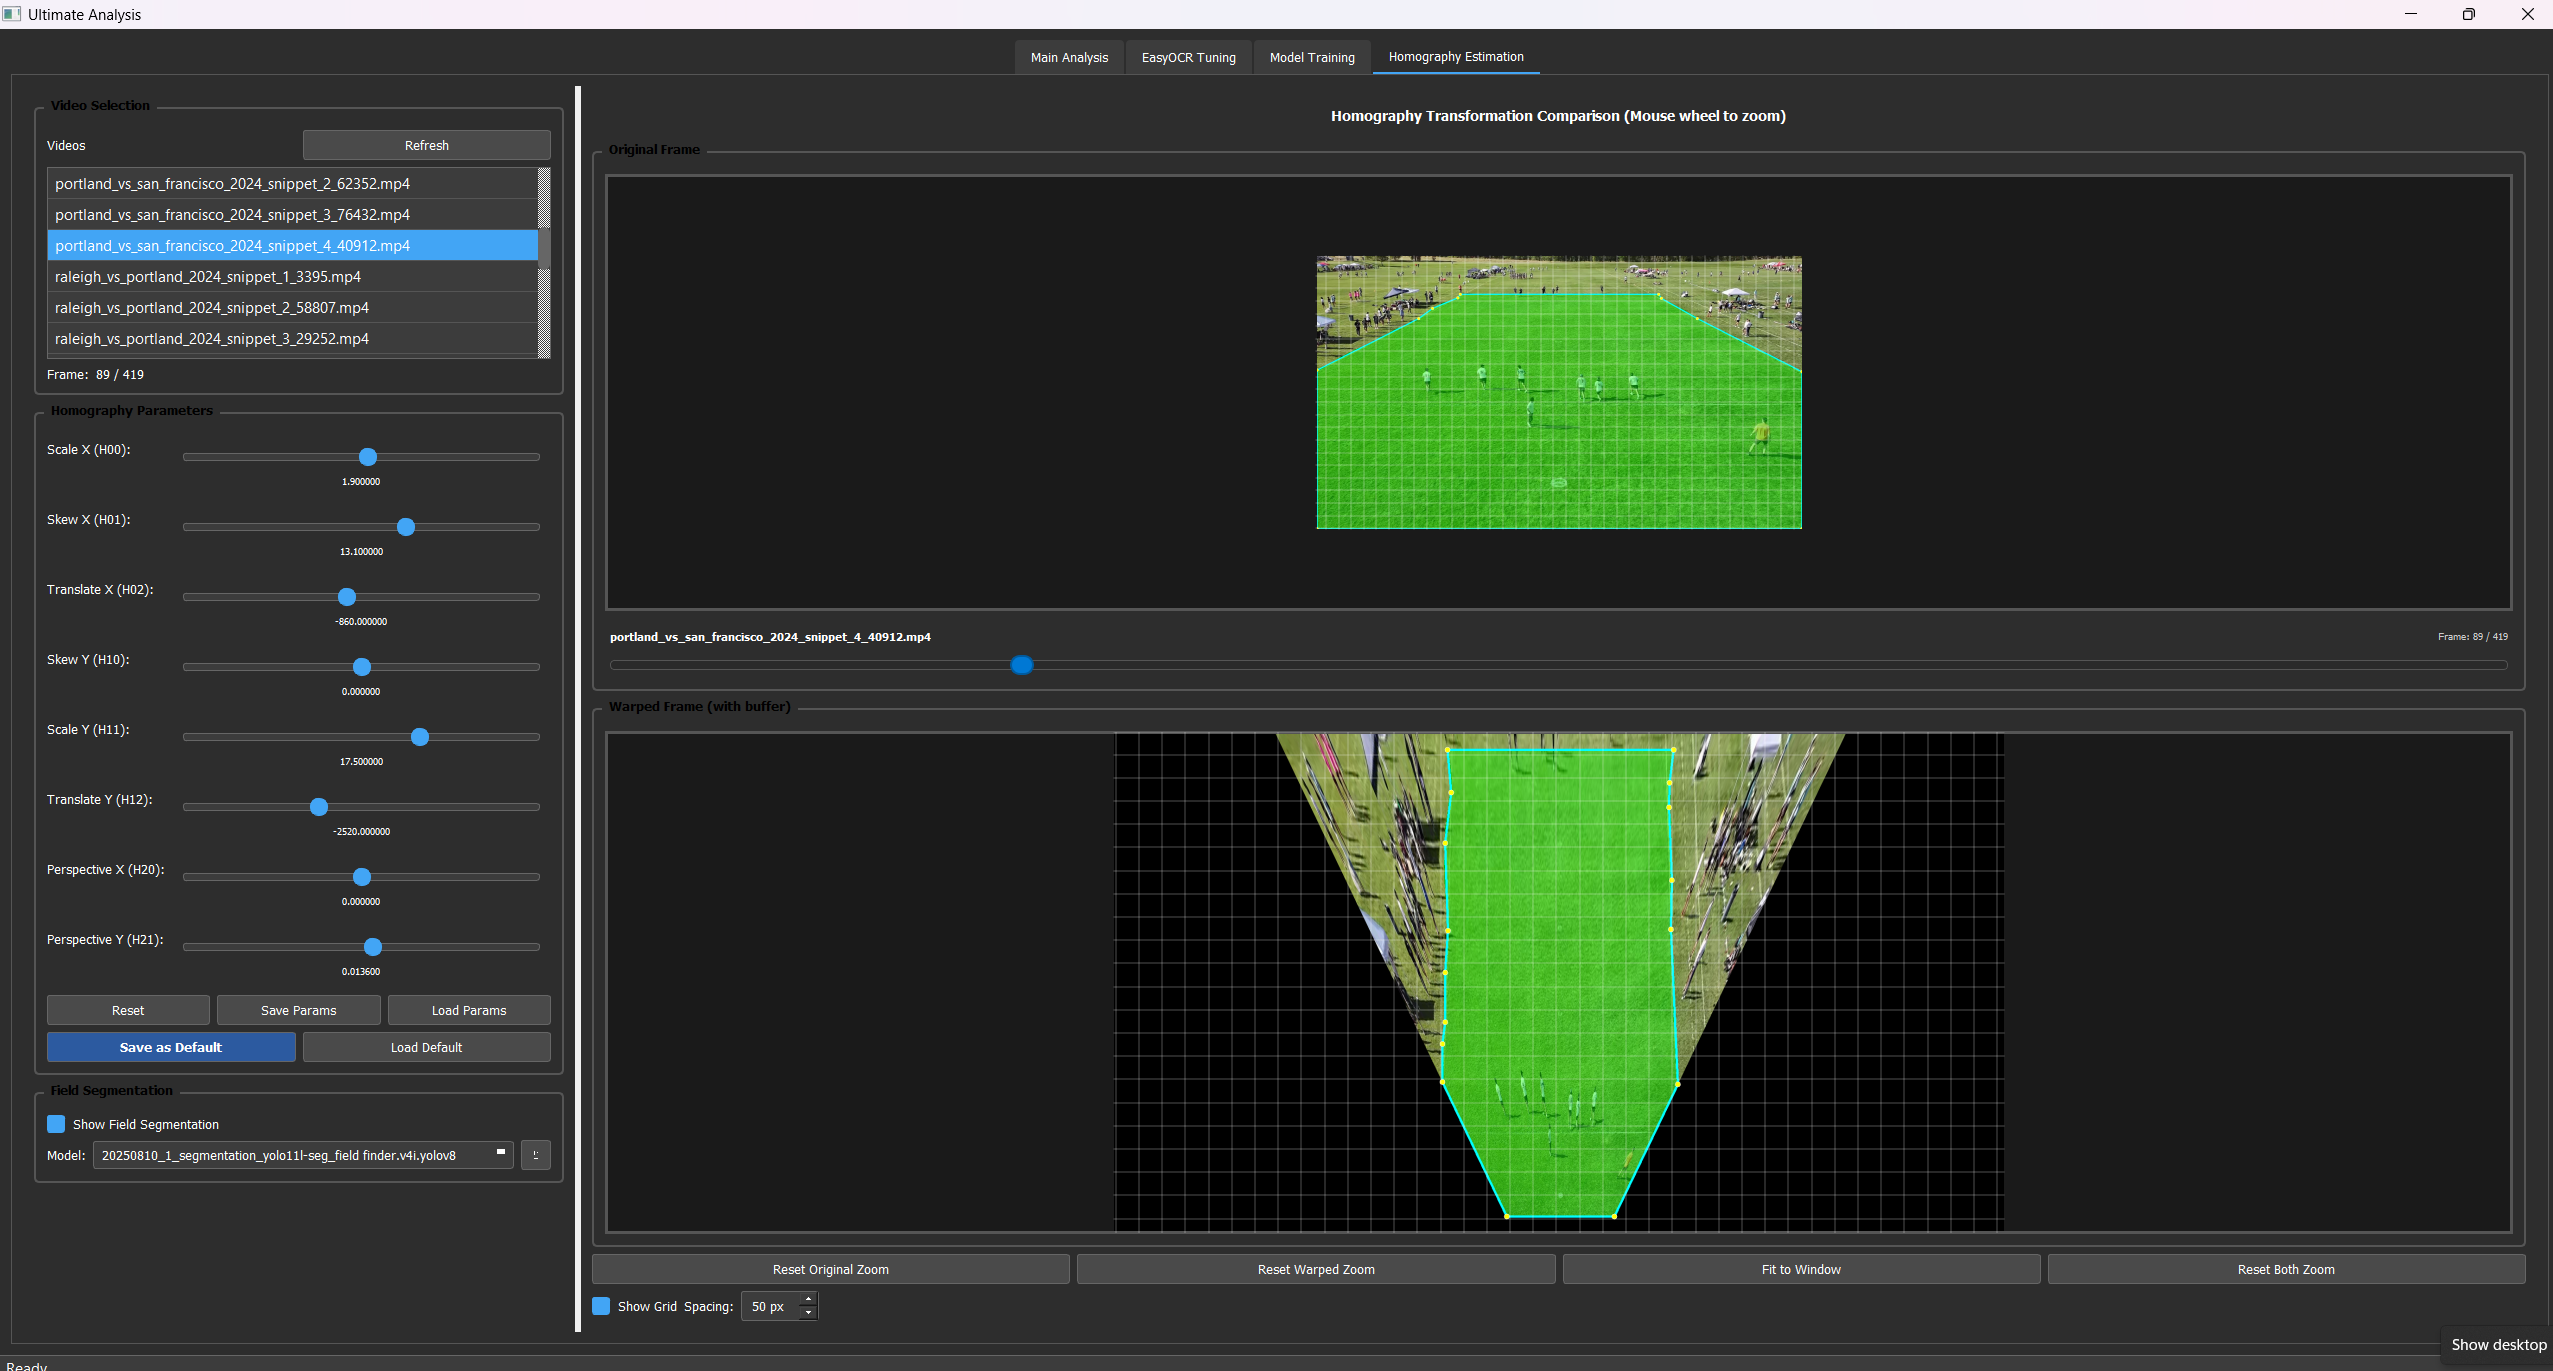
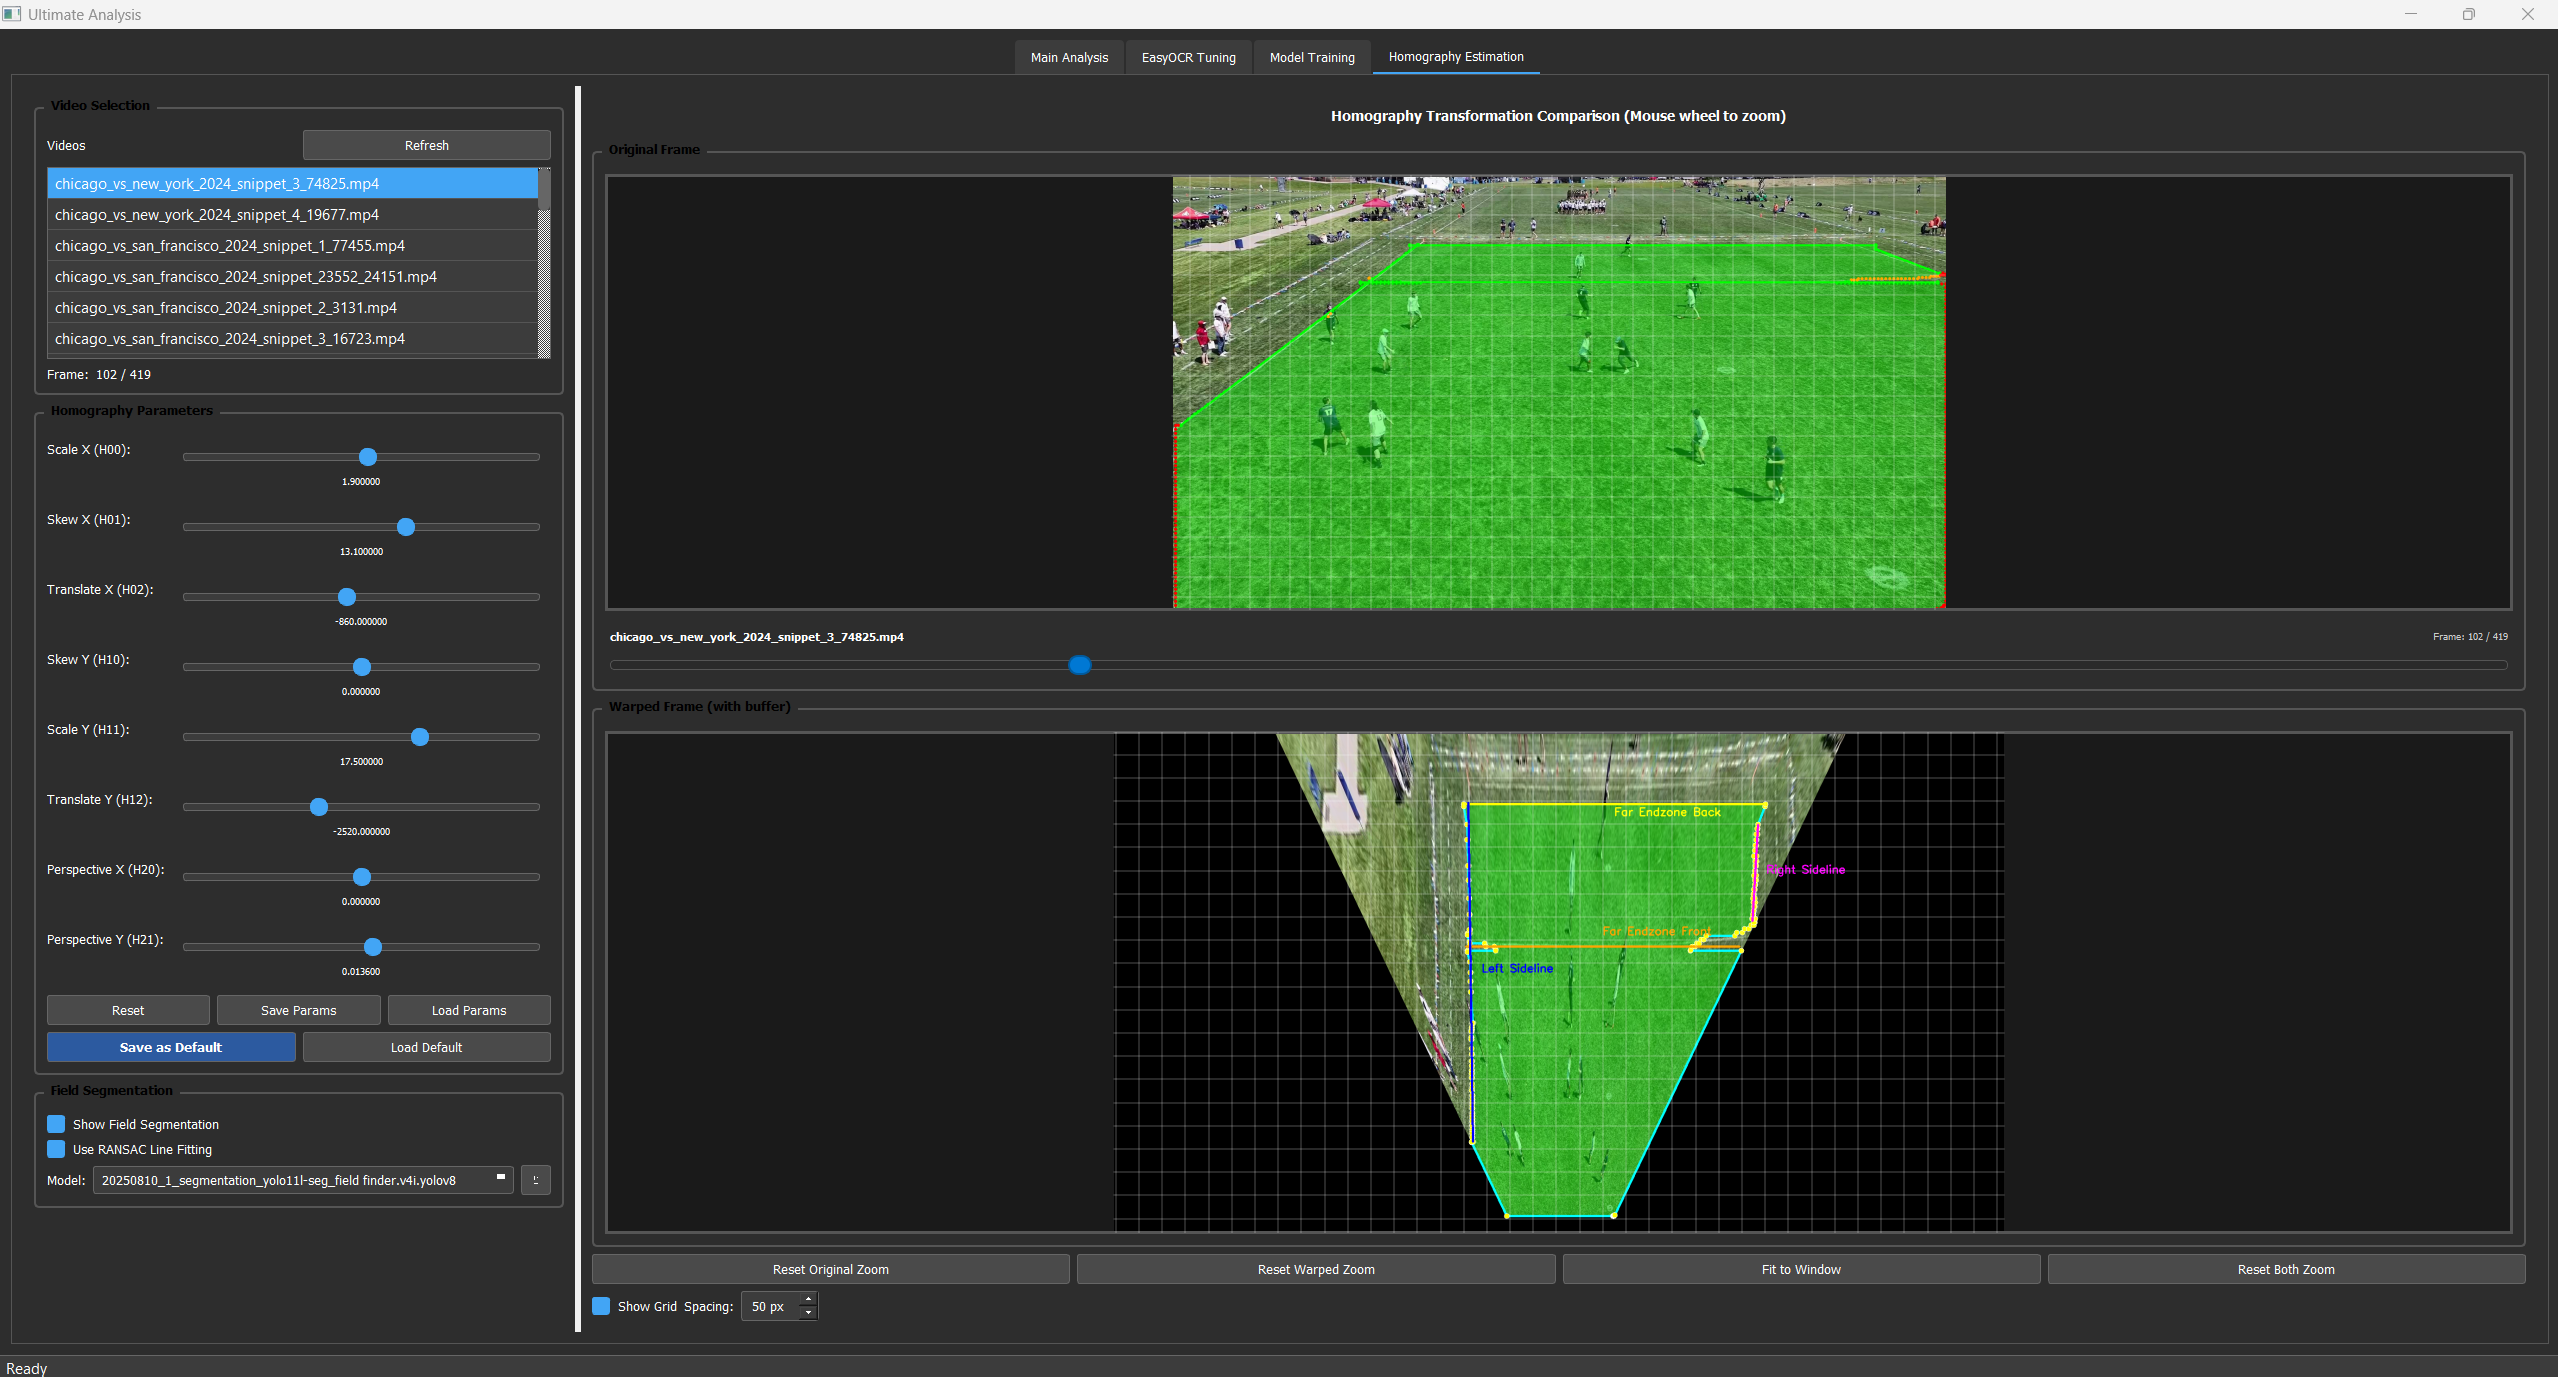
increased number of lines to detect

diff --git a/src/ultimate_analysis/gui/visualization.py b/src/ultimate_analysis/gui/visualization.py
@@ -912,7 +912,7 @@ def draw_field_contour(frame: np.ndarray, contour: np.ndarray,
 
 def fit_field_lines_ransac(contour: np.ndarray, 
                           frame: np.ndarray,
-                          num_lines: int = 3,
+                          num_lines: int = 4,
                           distance_threshold: float = 10.0,
                           min_samples: int = 2,
                           max_trials: int = 1000) -> Optional[Tuple[List[Tuple[np.ndarray, np.ndarray]], List[np.ndarray], List[np.ndarray], List[np.ndarray]]]:
@@ -1065,8 +1065,8 @@ def _classify_field_lines(fitted_lines: List[np.ndarray], frame_shape: Tuple[int
         avg_x = (start_point[0] + end_point[0]) / 2
         
         # Determine if line is horizontal or vertical
-        # Lines within 30 degrees of horizontal are considered horizontal
-        is_horizontal = abs(angle - 0) < 30 or abs(angle - 180) < 30
+        # Lines within 15 degrees of horizontal are considered horizontal (more strict)
+        is_horizontal = abs(angle - 0) < 15 or abs(angle - 180) < 15
         
         line_info.append({
             'index': i,
@@ -1091,28 +1091,50 @@ def _classify_field_lines(fitted_lines: List[np.ndarray], frame_shape: Tuple[int
     # Sort vertical lines by X position (left to right)
     vertical_lines.sort(key=lambda x: x['avg_x'])
     
-    # Classify horizontal lines
-    top_third_y = frame_height * (2/3)  # Top 2/3 of image
+    # Classify horizontal lines based on Y position
+    # Ultimate frisbee field has up to 4 horizontal lines: far endzone back, far endzone front, near endzone front, near endzone back
+    # Use quarter-based regions but ensure each classification is only assigned once
+    
+    quarter_height = frame_height / 4
+    used_classifications = set()
     
     for i, line_info_item in enumerate(horizontal_lines):
-        if line_info_item['avg_y'] < top_third_y:
-            # Lines in top 2/3 are far endzone lines
-            if i == 0:
-                classified['far_endzone_back'] = line_info_item['line']
-                print(f"[VISUALIZATION] Classified line {line_info_item['index']} as far endzone back")
-            elif i == 1:
-                classified['far_endzone_front'] = line_info_item['line']
-                print(f"[VISUALIZATION] Classified line {line_info_item['index']} as far endzone front")
+        y_pos = line_info_item['avg_y']
+        
+        # Determine preferred classification based on position
+        if y_pos < quarter_height:
+            preferred = 'far_endzone_back'
+        elif y_pos < quarter_height * 2:
+            preferred = 'far_endzone_front'
+        elif y_pos < quarter_height * 3:
+            preferred = 'near_endzone_front'
         else:
-            # Lines in bottom 1/3 are near endzone lines
-            if 'near_endzone_front' not in classified:
-                classified['near_endzone_front'] = line_info_item['line']
-                print(f"[VISUALIZATION] Classified line {line_info_item['index']} as near endzone front")
-            else:
-                classified['near_endzone_back'] = line_info_item['line']
-                print(f"[VISUALIZATION] Classified line {line_info_item['index']} as near endzone back")
+            preferred = 'near_endzone_back'
+        
+        # If preferred classification is already used, find an alternative
+        if preferred not in used_classifications:
+            classified[preferred] = line_info_item['line']
+            used_classifications.add(preferred)
+            print(f"[VISUALIZATION] Classified line {line_info_item['index']} as {preferred}")
+        else:
+            # Find the next available horizontal line classification
+            alternatives = ['far_endzone_back', 'far_endzone_front', 'near_endzone_front', 'near_endzone_back']
+            assigned = False
+            for alt in alternatives:
+                if alt not in used_classifications:
+                    classified[alt] = line_info_item['line']
+                    used_classifications.add(alt)
+                    print(f"[VISUALIZATION] Classified line {line_info_item['index']} as {alt} (alternative)")
+                    assigned = True
+                    break
+            
+            if not assigned:
+                # If all standard classifications are used, create additional ones
+                classified[f'horizontal_line_{i}'] = line_info_item['line']
+                print(f"[VISUALIZATION] Classified line {line_info_item['index']} as horizontal_line_{i} (overflow)")
     
     # Classify vertical lines (sidelines)
+    # Ultimate frisbee field typically has 2 sidelines, but may detect more segments
     for i, line_info_item in enumerate(vertical_lines):
         if i == 0:
             classified['left_sideline'] = line_info_item['line']
@@ -1120,6 +1142,10 @@ def _classify_field_lines(fitted_lines: List[np.ndarray], frame_shape: Tuple[int
         elif i == 1:
             classified['right_sideline'] = line_info_item['line']
             print(f"[VISUALIZATION] Classified line {line_info_item['index']} as right sideline")
+        else:
+            # Additional vertical lines - classify as additional sideline segments
+            classified[f'sideline_segment_{i}'] = line_info_item['line']
+            print(f"[VISUALIZATION] Classified line {line_info_item['index']} as sideline segment {i}")
     
     print(f"[VISUALIZATION] Line classification complete: {list(classified.keys())}")
     return classified
@@ -1700,7 +1726,7 @@ def draw_unified_field_mask(frame: np.ndarray, unified_mask: np.ndarray,
             simplified_contour = calculate_field_contour(unified_mask)
             if simplified_contour is not None:
                 # Fit lines using RANSAC
-                num_lines = get_setting("models.segmentation.contour.ransac.num_lines", 3)
+                num_lines = get_setting("models.segmentation.contour.ransac.num_lines", 4)
                 distance_threshold = get_setting("models.segmentation.contour.ransac.distance_threshold", 10.0)
                 min_samples = get_setting("models.segmentation.contour.ransac.min_samples", 2)
                 max_trials = get_setting("models.segmentation.contour.ransac.max_trials", 1000)
@@ -1836,10 +1862,32 @@ def draw_classified_field_lines(frame: np.ndarray, classified_lines: Dict[str, n
             0 <= end_int[0] < w and 0 <= end_int[1] < h):
             cv2.line(result, start_int, end_int, color, line_thickness)
             
-            # Add text label
+            # Add text label with offset to avoid covering the line
             mid_point = ((start_int[0] + end_int[0]) // 2, (start_int[1] + end_int[1]) // 2)
-            cv2.putText(result, line_type.replace('_', ' ').title(), mid_point, 
-                       cv2.FONT_HERSHEY_SIMPLEX, 0.5, color, 1)
+            
+            # Calculate offset perpendicular to the line
+            line_vec = (end_int[0] - start_int[0], end_int[1] - start_int[1])
+            line_length = max(1, (line_vec[0]**2 + line_vec[1]**2)**0.5)  # Avoid division by zero
+            
+            # Perpendicular vector (rotate 90 degrees)
+            perp_vec = (-line_vec[1], line_vec[0])
+            
+            # Normalize and scale for offset distance
+            offset_distance = 25  # pixels
+            offset_x = int((perp_vec[0] / line_length) * offset_distance)
+            offset_y = int((perp_vec[1] / line_length) * offset_distance)
+            
+            # Apply offset to text position
+            text_pos = (mid_point[0] + offset_x, mid_point[1] + offset_y)
+            
+            # Ensure text position is within frame bounds
+            text_pos = (max(10, min(w - 10, text_pos[0])), max(20, min(h - 10, text_pos[1])))
+            
+            # Draw text with larger font size and better visibility
+            font_scale = 0.8  # Increased from 0.5
+            font_thickness = 2  # Increased from 1
+            cv2.putText(result, line_type.replace('_', ' ').title(), text_pos, 
+                       cv2.FONT_HERSHEY_SIMPLEX, font_scale, color, font_thickness)
             
             print(f"[VISUALIZATION] Drew {line_type} line from {start_int} to {end_int}")
     
